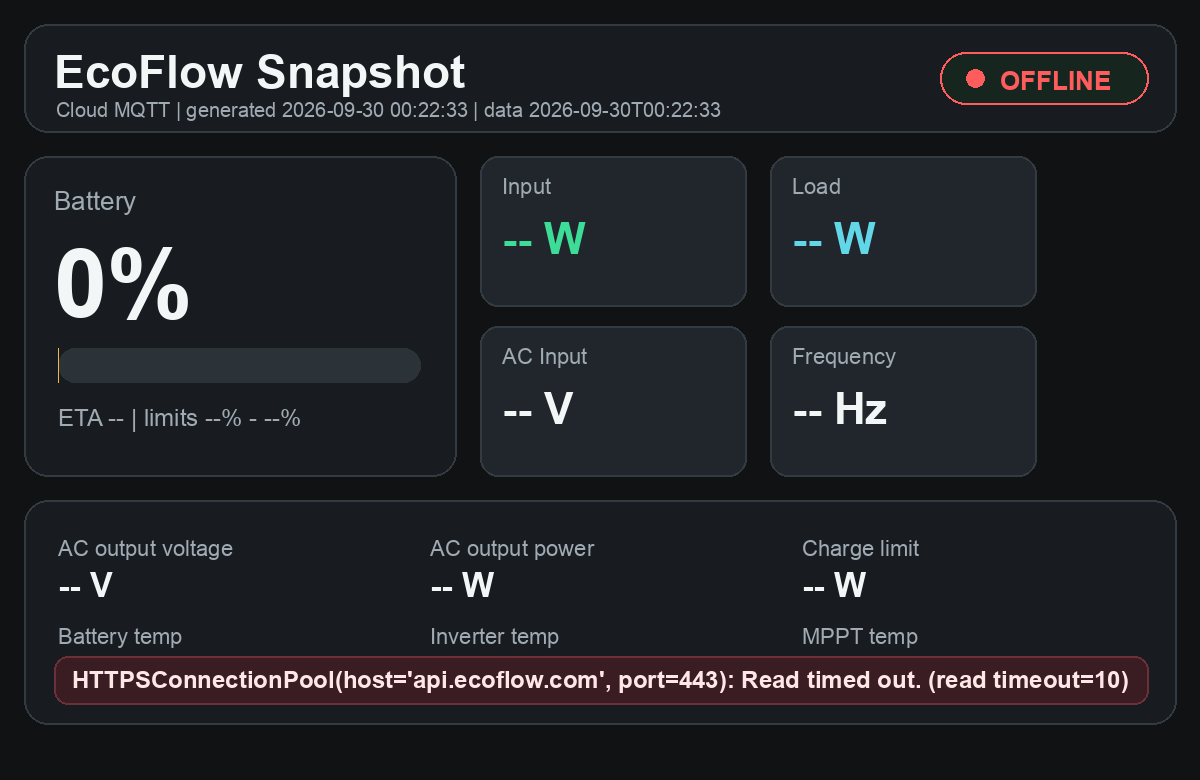
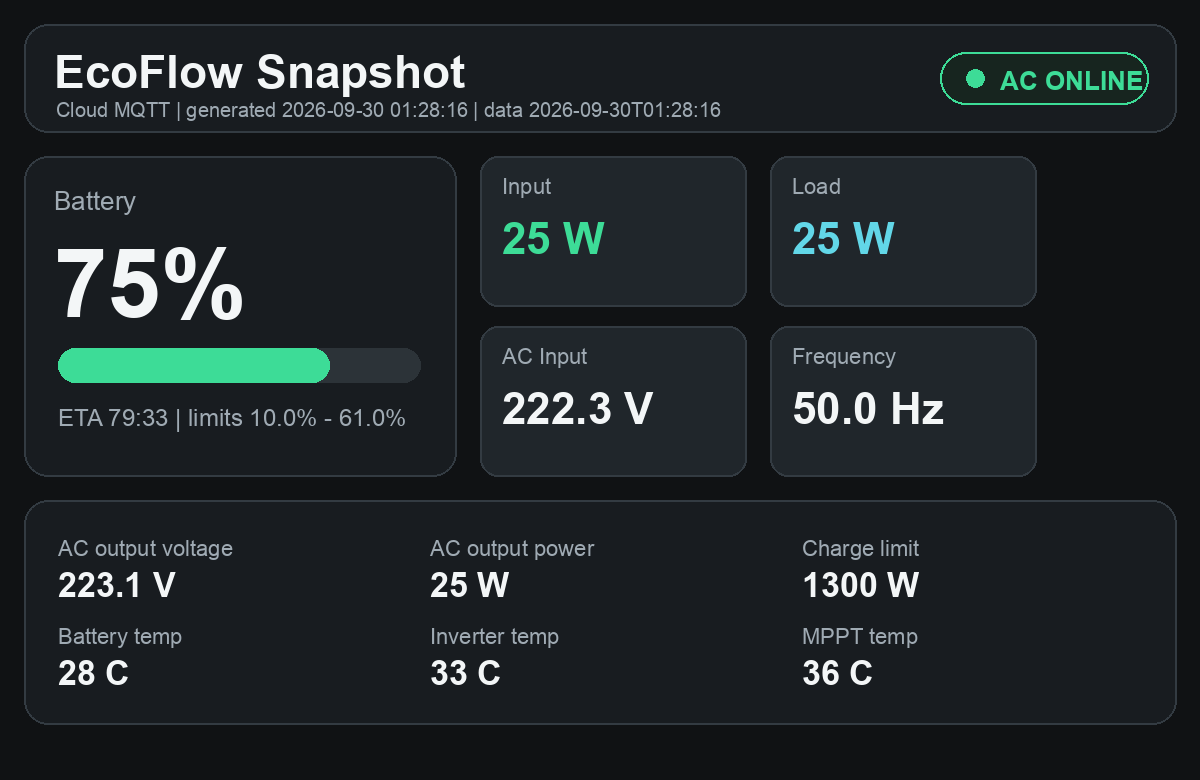
Update EcoFlow dashboard 2026-09-30 01:28:16

diff --git a/index.html b/index.html
@@ -75,7 +75,7 @@
       overflow: hidden;
       margin-top: 14px;
     }
-    .fill { width: 0%; height: 100%; background: linear-gradient(90deg, var(--green), var(--cyan)); }
+    .fill { width: 75%; height: 100%; background: linear-gradient(90deg, var(--green), var(--cyan)); }
     .cards {
       display: grid;
       grid-template-columns: repeat(4, minmax(0, 1fr));
@@ -177,34 +177,34 @@
   <header>
     <div>
       <h1>EcoFlow Snapshot</h1>
-      <div class="sub">Cloud MQTT · generated 2026-09-30T00:22:33 · data 2026-09-30T00:22:33</div>
+      <div class="sub">Cloud MQTT · generated 2026-09-30T01:28:16 · data 2026-09-30T01:28:16</div>
     </div>
-    <div class="status offline"><span class="dot"></span><span>Offline</span></div>
+    <div class="status online"><span class="dot"></span><span>AC online</span></div>
   </header>
 
-  <div class='error'>HTTPSConnectionPool(host=&#x27;api.ecoflow.com&#x27;, port=443): Read timed out. (read timeout=10)</div>
+  
 
   <div class="grid">
     <section>
       <h2>Battery</h2>
-      <div class="value">0%</div>
+      <div class="value">75%</div>
       <div class="battery"><div class="fill"></div></div>
-      <div class="row"><span>ETA</span><span>--</span></div>
-      <div class="row"><span>SOC limits</span><span>--% - --%</span></div>
+      <div class="row"><span>ETA</span><span>79:33</span></div>
+      <div class="row"><span>SOC limits</span><span>10.0% - 61.0%</span></div>
     </section>
     <section>
       <h2>AC</h2>
-      <div class="row"><span>Input voltage</span><span>-- V</span></div>
-      <div class="row"><span>Input frequency</span><span>-- Hz</span></div>
-      <div class="row"><span>Output voltage</span><span>-- V</span></div>
+      <div class="row"><span>Input voltage</span><span>222.3 V</span></div>
+      <div class="row"><span>Input frequency</span><span>50.0 Hz</span></div>
+      <div class="row"><span>Output voltage</span><span>223.1 V</span></div>
     </section>
   </div>
 
   <div class="cards">
-    <div class="card"><span class="label">Input</span><span class="value">-- W</span></div>
-    <div class="card"><span class="label">Load</span><span class="value">-- W</span></div>
-    <div class="card"><span class="label">Battery temp</span><span class="value">--°C</span></div>
-    <div class="card"><span class="label">Inverter temp</span><span class="value">--°C</span></div>
+    <div class="card"><span class="label">Input</span><span class="value">25 W</span></div>
+    <div class="card"><span class="label">Load</span><span class="value">25 W</span></div>
+    <div class="card"><span class="label">Battery temp</span><span class="value">28°C</span></div>
+    <div class="card"><span class="label">Inverter temp</span><span class="value">33°C</span></div>
   </div>
 
   
@@ -217,8 +217,8 @@
         <div class="daily-item"><span class="label">Зарядний ліміт</span><strong>1300 W</strong><small>пік входу 1358 W · 104% ліміту</small></div>
         <div class="daily-item"><span class="label">Заряджання</span><strong>14 хв</strong><small>останнє 29.09 21:12</small></div>
         <div class="daily-item"><span class="label">Розряджання</span><strong>0 сек</strong><small>--</small></div>
-        <div class="daily-item"><span class="label">Енергія вхід / вихід</span><strong>723 Wh / 416 Wh</strong><small>оцінка за sample-ами</small></div>
-        <div class="daily-item"><span class="label">Частота min / max</span><strong>50.0 Hz / 50.0 Hz</strong><small>29.09 00:23 / 29.09 00:23</small></div>
+        <div class="daily-item"><span class="label">Енергія вхід / вихід</span><strong>634 Wh / 326 Wh</strong><small>оцінка за sample-ами</small></div>
+        <div class="daily-item"><span class="label">Частота min / max</span><strong>50.0 Hz / 50.0 Hz</strong><small>29.09 01:29 / 29.09 01:29</small></div>
       </div>
     </section>
     
@@ -238,10 +238,33 @@
   <details>
     <summary>Snapshot JSON</summary>
     <pre>{
-  &quot;ok&quot;: false,
+  &quot;ok&quot;: true,
   &quot;source&quot;: &quot;Cloud MQTT&quot;,
-  &quot;timestamp&quot;: &quot;2026-09-30T00:22:33&quot;,
-  &quot;error&quot;: &quot;HTTPSConnectionPool(host=&#x27;api.ecoflow.com&#x27;, port=443): Read timed out. (read timeout=10)&quot;,
+  &quot;device&quot;: &quot;DELTA Pro&quot;,
+  &quot;timestamp&quot;: &quot;2026-09-30T01:28:16&quot;,
+  &quot;grid&quot;: true,
+  &quot;battery&quot;: {
+    &quot;soc&quot;: 75,
+    &quot;min&quot;: 10.0,
+    &quot;max&quot;: 61.0,
+    &quot;eta&quot;: &quot;79:33&quot;
+  },
+  &quot;power&quot;: {
+    &quot;in&quot;: 25,
+    &quot;out&quot;: 25,
+    &quot;acOut&quot;: 25,
+    &quot;chargeLimit&quot;: 1300
+  },
+  &quot;ac&quot;: {
+    &quot;inputVoltage&quot;: 222.325,
+    &quot;inputFreq&quot;: 50.0,
+    &quot;outputVoltage&quot;: 223.097
+  },
+  &quot;temps&quot;: {
+    &quot;battery&quot;: 28,
+    &quot;inverter&quot;: 33,
+    &quot;mppt&quot;: 36
+  },
   &quot;history&quot;: [
     {
       &quot;ts&quot;: &quot;2026-09-14T11:26:16&quot;,
@@ -284,16 +307,16 @@
   ],
   &quot;telemetry&quot;: {
     &quot;window&quot;: &quot;24h&quot;,
-    &quot;sample_count&quot;: 433,
-    &quot;from&quot;: &quot;2026-09-29T00:23:06&quot;,
-    &quot;to&quot;: &quot;2026-09-29T23:48:33&quot;,
+    &quot;sample_count&quot;: 369,
+    &quot;from&quot;: &quot;2026-09-29T01:29:13&quot;,
+    &quot;to&quot;: &quot;2026-09-30T01:28:16&quot;,
     &quot;latest&quot;: {
       &quot;mode&quot;: &quot;idle&quot;,
       &quot;grid&quot;: true,
       &quot;soc&quot;: 75.0,
-      &quot;ac_v&quot;: 223.323,
-      &quot;in_w&quot;: 24.0,
-      &quot;out_w&quot;: 24.0,
+      &quot;ac_v&quot;: 222.325,
+      &quot;in_w&quot;: 25.0,
+      &quot;out_w&quot;: 25.0,
       &quot;charge_limit_w&quot;: 1300.0
     },
     &quot;voltage&quot;: {
@@ -307,11 +330,11 @@
       },
       &quot;frequency_min&quot;: {
         &quot;value&quot;: 50.0,
-        &quot;ts&quot;: &quot;2026-09-29T00:23:06&quot;
+        &quot;ts&quot;: &quot;2026-09-29T01:29:13&quot;
       },
       &quot;frequency_max&quot;: {
         &quot;value&quot;: 50.0,
-        &quot;ts&quot;: &quot;2026-09-29T00:23:06&quot;
+        &quot;ts&quot;: &quot;2026-09-29T01:29:13&quot;
       }
     },
     &quot;soc&quot;: {
@@ -339,16 +362,16 @@
       },
       &quot;charge_limit_w&quot;: 1300.0,
       &quot;max_input_pct_of_current_limit&quot;: 104,
-      &quot;input_wh_est&quot;: 723.3,
-      &quot;load_wh_est&quot;: 416.1
+      &quot;input_wh_est&quot;: 633.5,
+      &quot;load_wh_est&quot;: 326.3
     },
     &quot;modes&quot;: {
       &quot;charging_sec&quot;: 851,
       &quot;discharging_sec&quot;: 0,
-      &quot;idle_sec&quot;: 28392,
+      &quot;idle_sec&quot;: 24605,
       &quot;charging&quot;: &quot;14 хв&quot;,
       &quot;discharging&quot;: &quot;0 сек&quot;,
-      &quot;idle&quot;: &quot;7 год 53 хв&quot;,
+      &quot;idle&quot;: &quot;6 год 50 хв&quot;,
       &quot;last_charging&quot;: {
         &quot;ts&quot;: &quot;2026-09-29T21:12:45&quot;,
         &quot;grid&quot;: true,
